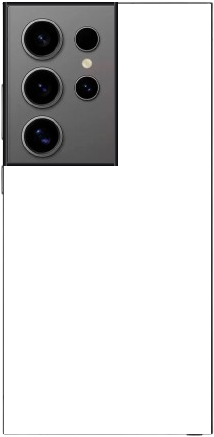
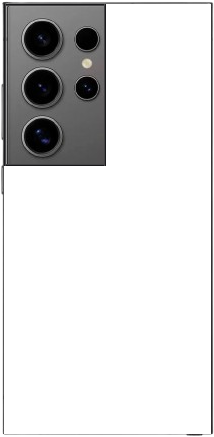
fixed samsun phone

Changed region(s): [[0.0, 0.0, 0.5607, 0.3867]]

diff --git a/src/app/auth/register/page.tsx b/src/app/auth/register/page.tsx
@@ -1,16 +1,19 @@
 import RegisterForm from "./RegisterForm";
 
 export default function Page() {
-    return (
-        <div className="flex flex-col gap-3">
-            <div className="flex flex-col gap-2 mb-4 ">
-                <h1 className=" text-2xl md:text-3xl font-semibold">Let&apos;s get started 🎉 </h1>
-            <p className="text-muted-foreground">Register to start creating your custom phone cases</p>
-            </div>
-            <RegisterForm />
-            
-        </div>
-    );
+  return (
+    <div className="flex flex-col gap-6">
+      <div className="flex flex-col gap-2">
+        <h1 className="text-2xl font-bold tracking-tight mt-2">Let&apos;s get started 🎉</h1>
+        <p className="text-sm text-muted-foreground">
+          Design your case. Make it yours.
+        </p>
+      </div>
+      <RegisterForm />
+    </div>
+  );
 }
+
+
 
 

diff --git a/src/app/auth/forgot-password/page.tsx b/src/app/auth/forgot-password/page.tsx
@@ -1,11 +1,16 @@
 import ForgotPasswordForm from "./ForgotPasswordForm";
 
 export default function Page() {
-    return (
-        <div>
-            <h1 className="text-2xl font-semibold mt-4">Forgot Password</h1>
-            <p className="text-muted-foreground ">Please enter your email address to reset your password.</p>
-            <ForgotPasswordForm />
-        </div>
-    );
+  return (
+    <div className="flex flex-col gap-6">
+      <div className="flex flex-col gap-2">
+        <h1 className="text-2xl font-bold tracking-tight mt-2">Forgot Password</h1>
+        <p className="text-sm text-muted-foreground">
+          Enter your email to recover your account.
+        </p>
+      </div>
+      <ForgotPasswordForm />
+    </div>
+  );
 }
+

diff --git a/src/app/auth/layout.tsx b/src/app/auth/layout.tsx
@@ -2,19 +2,20 @@ import Image from "next/image";
 
 export default function Layout({ children }: { children: React.ReactNode }) {
   return (
-    <section className=" grid md:grid-cols-2 overflow-hidden">
-      <div className="flex flex-col app-container justify-center items-center">
+    <section className="grid md:grid-cols-2 min-h-[calc(100vh-7.5rem)] overflow-hidden">
+      <div className="flex flex-col app-container justify-center items-center py-12 md:py-16">
         <div className="max-w-[400px] w-full">{children}</div>
       </div>
-      <div className="h-full max-md:hidden">
+      <div className="relative w-full h-full min-h-[500px] max-md:hidden">
         <Image
           src="/images/auth-img.jpeg"
           alt="casee illustration"
-          width={500}
-          height={500}
-          className="object-cover h-full w-full"
+          fill
+          priority
+          className="object-cover"
         />
       </div>
     </section>
   );
 }
+

diff --git a/src/app/auth/login/page.tsx b/src/app/auth/login/page.tsx
@@ -2,11 +2,16 @@ import LoginForm from "./LoginForm";
 
 export default function Page() {
   return (
-    <div className=" flex flex-col gap-3 ">
-      <div className="flex flex-col gap-3">
-          <h3 className="text-2xl font-semibold mt-4">Welcome Back</h3>
-        <LoginForm />
+    <div className="flex flex-col gap-6">
+      <div className="flex flex-col gap-2">
+        <h1 className="text-2xl font-bold tracking-tight mt-2">Welcome Back</h1>
+        <p className="text-sm text-muted-foreground">
+          Design your case. Make it yours.
+        </p>
       </div>
+      <LoginForm />
     </div>
   );
 }
+
+

diff --git a/src/app/configure/design/DesignConfig.tsx b/src/app/configure/design/DesignConfig.tsx
@@ -33,13 +33,13 @@ export default function DesignConfig({
   let radiusClass = "rounded-[32px]";
 
   if (model.brand === "Google") {
-    templateSrc = "/images/phone-templates/pixel.png?v=5";
+    templateSrc = "/images/phone-templates/pixel.png?v=14";
     aspect = 303 / 607;
     radiusClass = "rounded-[36px]";
   } else if (model.brand === "Samsung") {
-    templateSrc = "/images/phone-templates/samsung.png?v=5";
+    templateSrc = "/images/phone-templates/samsung.png?v=14";
     aspect = 214 / 437;
-    radiusClass = "rounded-[16px]";
+    radiusClass = "rounded-[6px]";
   }
 
   const handleAddImageClick = () => {
@@ -153,7 +153,7 @@ export default function DesignConfig({
         <div
           className={cn(
             "absolute inset-0 left-[3px] top-px right-[3px] bottom-px transition-colors duration-300",
-            `bg-${color.tw}`,
+            color.bgClass,
             radiusClass
           )}
         />

diff --git a/src/app/configure/preview/DesignedCase.tsx b/src/app/configure/preview/DesignedCase.tsx
@@ -18,13 +18,13 @@ export default function DesignedCase({
   let radiusClass = "rounded-[32px]";
 
   if (modelObj.brand === "Google") {
-    templateSrc = "/images/phone-templates/pixel.png?v=5";
+    templateSrc = "/images/phone-templates/pixel.png?v=14";
     aspect = 303 / 607;
     radiusClass = "rounded-[36px]";
   } else if (modelObj.brand === "Samsung") {
-    templateSrc = "/images/phone-templates/samsung.png?v=5";
+    templateSrc = "/images/phone-templates/samsung.png?v=14";
     aspect = 214 / 437;
-    radiusClass = "rounded-[16px]";
+    radiusClass = "rounded-[6px]";
   }
 
   return (
@@ -53,7 +53,7 @@ export default function DesignedCase({
         <div
           className={cn(
             "absolute inset-0 left-[3px] top-px right-[3px] bottom-px transition-colors duration-300 -z-10",
-            `bg-${tw}`,
+            colorObj.bgClass,
             radiusClass
           )}
         />

diff --git a/scratch/convert_perfect_align.py b/scratch/convert_perfect_align.py
@@ -1,0 +1,48 @@
+from PIL import Image
+
+# Open the raw Samsung Ultra image
+img = Image.open("public/images/samsungs_ultra.png").convert("RGBA")
+width, height = img.size
+pixels = img.load()
+
+# Bounding box of the phone is (143, 31, 357, 468)
+# Camera lenses box is: x from 147 to 248 (reduced right boundary to 248), y from 35 to 196
+for x in range(width):
+    for y in range(height):
+        if 143 <= x <= 357 and 31 <= y <= 468:
+            is_border = (x < 147 or x > 353 or y < 35 or y > 464)
+            
+            if not is_border:
+                is_camera_box = (147 <= x <= 248 and 35 <= y <= 196)
+                
+                if not is_camera_box:
+                    pixels[x, y] = (0, 0, 0, 0)
+
+# Step 2: Draw the aligned thin 2-pixel camera bezel
+c_shadow = (25, 25, 27, 255)
+c_highlight = (70, 70, 72, 255)
+
+# Horizontal borders (top: 35-36, bottom: 195-196)
+for x in range(147, 249):
+    pixels[x, 35] = c_shadow
+    pixels[x, 36] = c_highlight
+    
+    pixels[x, 195] = c_highlight
+    pixels[x, 196] = c_shadow
+
+# Vertical borders (left: 147-148, right: 247-248)
+for y in range(35, 197):
+    pixels[147, y] = c_shadow
+    pixels[148, y] = c_highlight
+    
+    pixels[247, y] = c_highlight
+    pixels[248, y] = c_shadow
+
+# Auto-crop
+bbox = img.getbbox()
+if bbox:
+    cropped_img = img.crop(bbox)
+    cropped_img.save("public/images/phone-templates/samsung.png", "PNG")
+    print("Successfully generated Samsung Ultra template with optimized right camera boundary!")
+else:
+    print("Error: Bounding box is empty.")

diff --git a/scratch/convert_thin_border.py b/scratch/convert_thin_border.py
@@ -1,0 +1,48 @@
+from PIL import Image
+
+# Open the raw Samsung Ultra image
+img = Image.open("public/images/samsungs_ultra.png").convert("RGBA")
+width, height = img.size
+pixels = img.load()
+
+# Bounding box of the phone is (143, 31, 357, 468)
+# Camera lenses box is: x from 148 to 242, y from 33 to 196
+for x in range(width):
+    for y in range(height):
+        if 143 <= x <= 357 and 31 <= y <= 468:
+            is_border = (x < 147 or x > 353 or y < 35 or y > 464)
+            
+            if not is_border:
+                is_camera_box = (148 <= x <= 242 and 33 <= y <= 196)
+                
+                if not is_camera_box:
+                    pixels[x, y] = (0, 0, 0, 0)
+
+# Step 2: Draw a thin 2-pixel subtle 3D bezel around the camera box
+c_shadow = (25, 25, 27, 255)
+c_highlight = (70, 70, 72, 255)
+
+# Horizontal top & bottom borders
+for x in range(148, 243):
+    pixels[x, 33] = c_shadow
+    pixels[x, 34] = c_highlight
+    
+    pixels[x, 195] = c_highlight
+    pixels[x, 196] = c_shadow
+
+# Vertical left & right borders
+for y in range(33, 197):
+    pixels[148, y] = c_shadow
+    pixels[149, y] = c_highlight
+    
+    pixels[239, y] = c_highlight
+    pixels[240, y] = c_shadow
+
+# Auto-crop
+bbox = img.getbbox()
+if bbox:
+    cropped_img = img.crop(bbox)
+    cropped_img.save("public/images/phone-templates/samsung.png", "PNG")
+    print("Successfully generated Samsung Ultra template with a thin 2-pixel camera bezel!")
+else:
+    print("Error: Bounding box is empty.")

diff --git a/scratch/convert_natural.py b/scratch/convert_natural.py
@@ -1,0 +1,32 @@
+from PIL import Image
+
+# Open the raw Samsung Ultra image
+img = Image.open("public/images/samsungs_ultra.png").convert("RGBA")
+width, height = img.size
+pixels = img.load()
+
+# Bounding box of the phone is (143, 31, 357, 468)
+# Camera lenses box is: x from 148 to 242, y from 33 to 196
+for x in range(width):
+    for y in range(height):
+        if 143 <= x <= 357 and 31 <= y <= 468:
+            is_border = (x < 147 or x > 353 or y < 35 or y > 464)
+            
+            if not is_border:
+                is_camera_box = (148 <= x <= 242 and 33 <= y <= 196)
+                
+                if not is_camera_box:
+                    # Erase phone body to make it transparent
+                    pixels[x, y] = (0, 0, 0, 0)
+                else:
+                    # Keep the camera box 100% solid and natural (no erasing, no drawing borders)
+                    pass
+
+# Auto-crop to remove transparent padding
+bbox = img.getbbox()
+if bbox:
+    cropped_img = img.crop(bbox)
+    cropped_img.save("public/images/phone-templates/samsung.png", "PNG")
+    print("Successfully regenerated public/images/phone-templates/samsung.png without artificial borders!")
+else:
+    print("Error: Bounding box is empty.")

diff --git a/scratch/find_samsung_camera_island.py b/scratch/find_samsung_camera_island.py
@@ -1,0 +1,23 @@
+from PIL import Image
+
+img = Image.open("public/images/samsungs_ultra.png").convert("RGBA")
+width, height = img.size
+pixels = img.load()
+
+# Bounding box of the camera region in y is 30 to 200.
+# Let's find the rightmost x coordinate in this region that belongs to a lens, sensor, flash, or chrome ring.
+# We define body pixels as R, G, B between 50 and 80.
+non_body_pixels = []
+for y in range(30, 201):
+    for x in range(143, 357): # within the phone width
+        r, g, b, a = pixels[x, y]
+        # If it's not the body color (with a conservative threshold)
+        if not (50 <= r <= 80 and 50 <= g <= 80 and 50 <= b <= 80):
+            non_body_pixels.append((x, y))
+
+# Let's group them by x and find the maximum x
+xs = [p[0] for p in non_body_pixels]
+print(f"Total non-body pixels found in camera area: {len(xs)}")
+if xs:
+    print(f"Minimum x of camera elements: {min(xs)}")
+    print(f"Maximum x of camera elements: {max(xs)}")

diff --git a/scratch/find_lenses_only.py b/scratch/find_lenses_only.py
@@ -1,0 +1,22 @@
+from PIL import Image
+
+img = Image.open("public/images/samsungs_ultra.png").convert("RGBA")
+width, height = img.size
+pixels = img.load()
+
+matches = []
+for y in range(35, 196): # inside the camera box height
+    for x in range(210, 300):
+        r, g, b, a = pixels[x, y]
+        if a > 0:
+            if (r < 40 and g < 40 and b < 40) or (r > 150 and g > 150 and b > 150):
+                matches.append((x, y, (r, g, b)))
+
+print(f"Total active matches in camera body height with x >= 210: {len(matches)}")
+if matches:
+    xs = [m[0] for m in matches]
+    print(f"Max x: {max(xs)}")
+    high_x = [m for m in matches if m[0] > max(xs) - 10]
+    print("Matches close to max x:")
+    for m in high_x[:20]:
+        print(f"x={m[0]}, y={m[1]}: color={m[2]}")

diff --git a/scratch/analyze_samsung_right_edge.py b/scratch/analyze_samsung_right_edge.py
@@ -1,0 +1,11 @@
+from PIL import Image
+
+img = Image.open("public/images/samsungs_ultra.png").convert("RGBA")
+w, h = img.size
+
+# Let's inspect the transition from x = 210 to 280 to see where the camera island ends.
+# The body color is around (67, 63, 64), whereas the camera island is lighter grey.
+print("Sampling row y=120 from x=210 to 280:")
+for x in range(210, 281):
+    color = img.getpixel((x, 120))
+    print(f"x={x}: {color}")